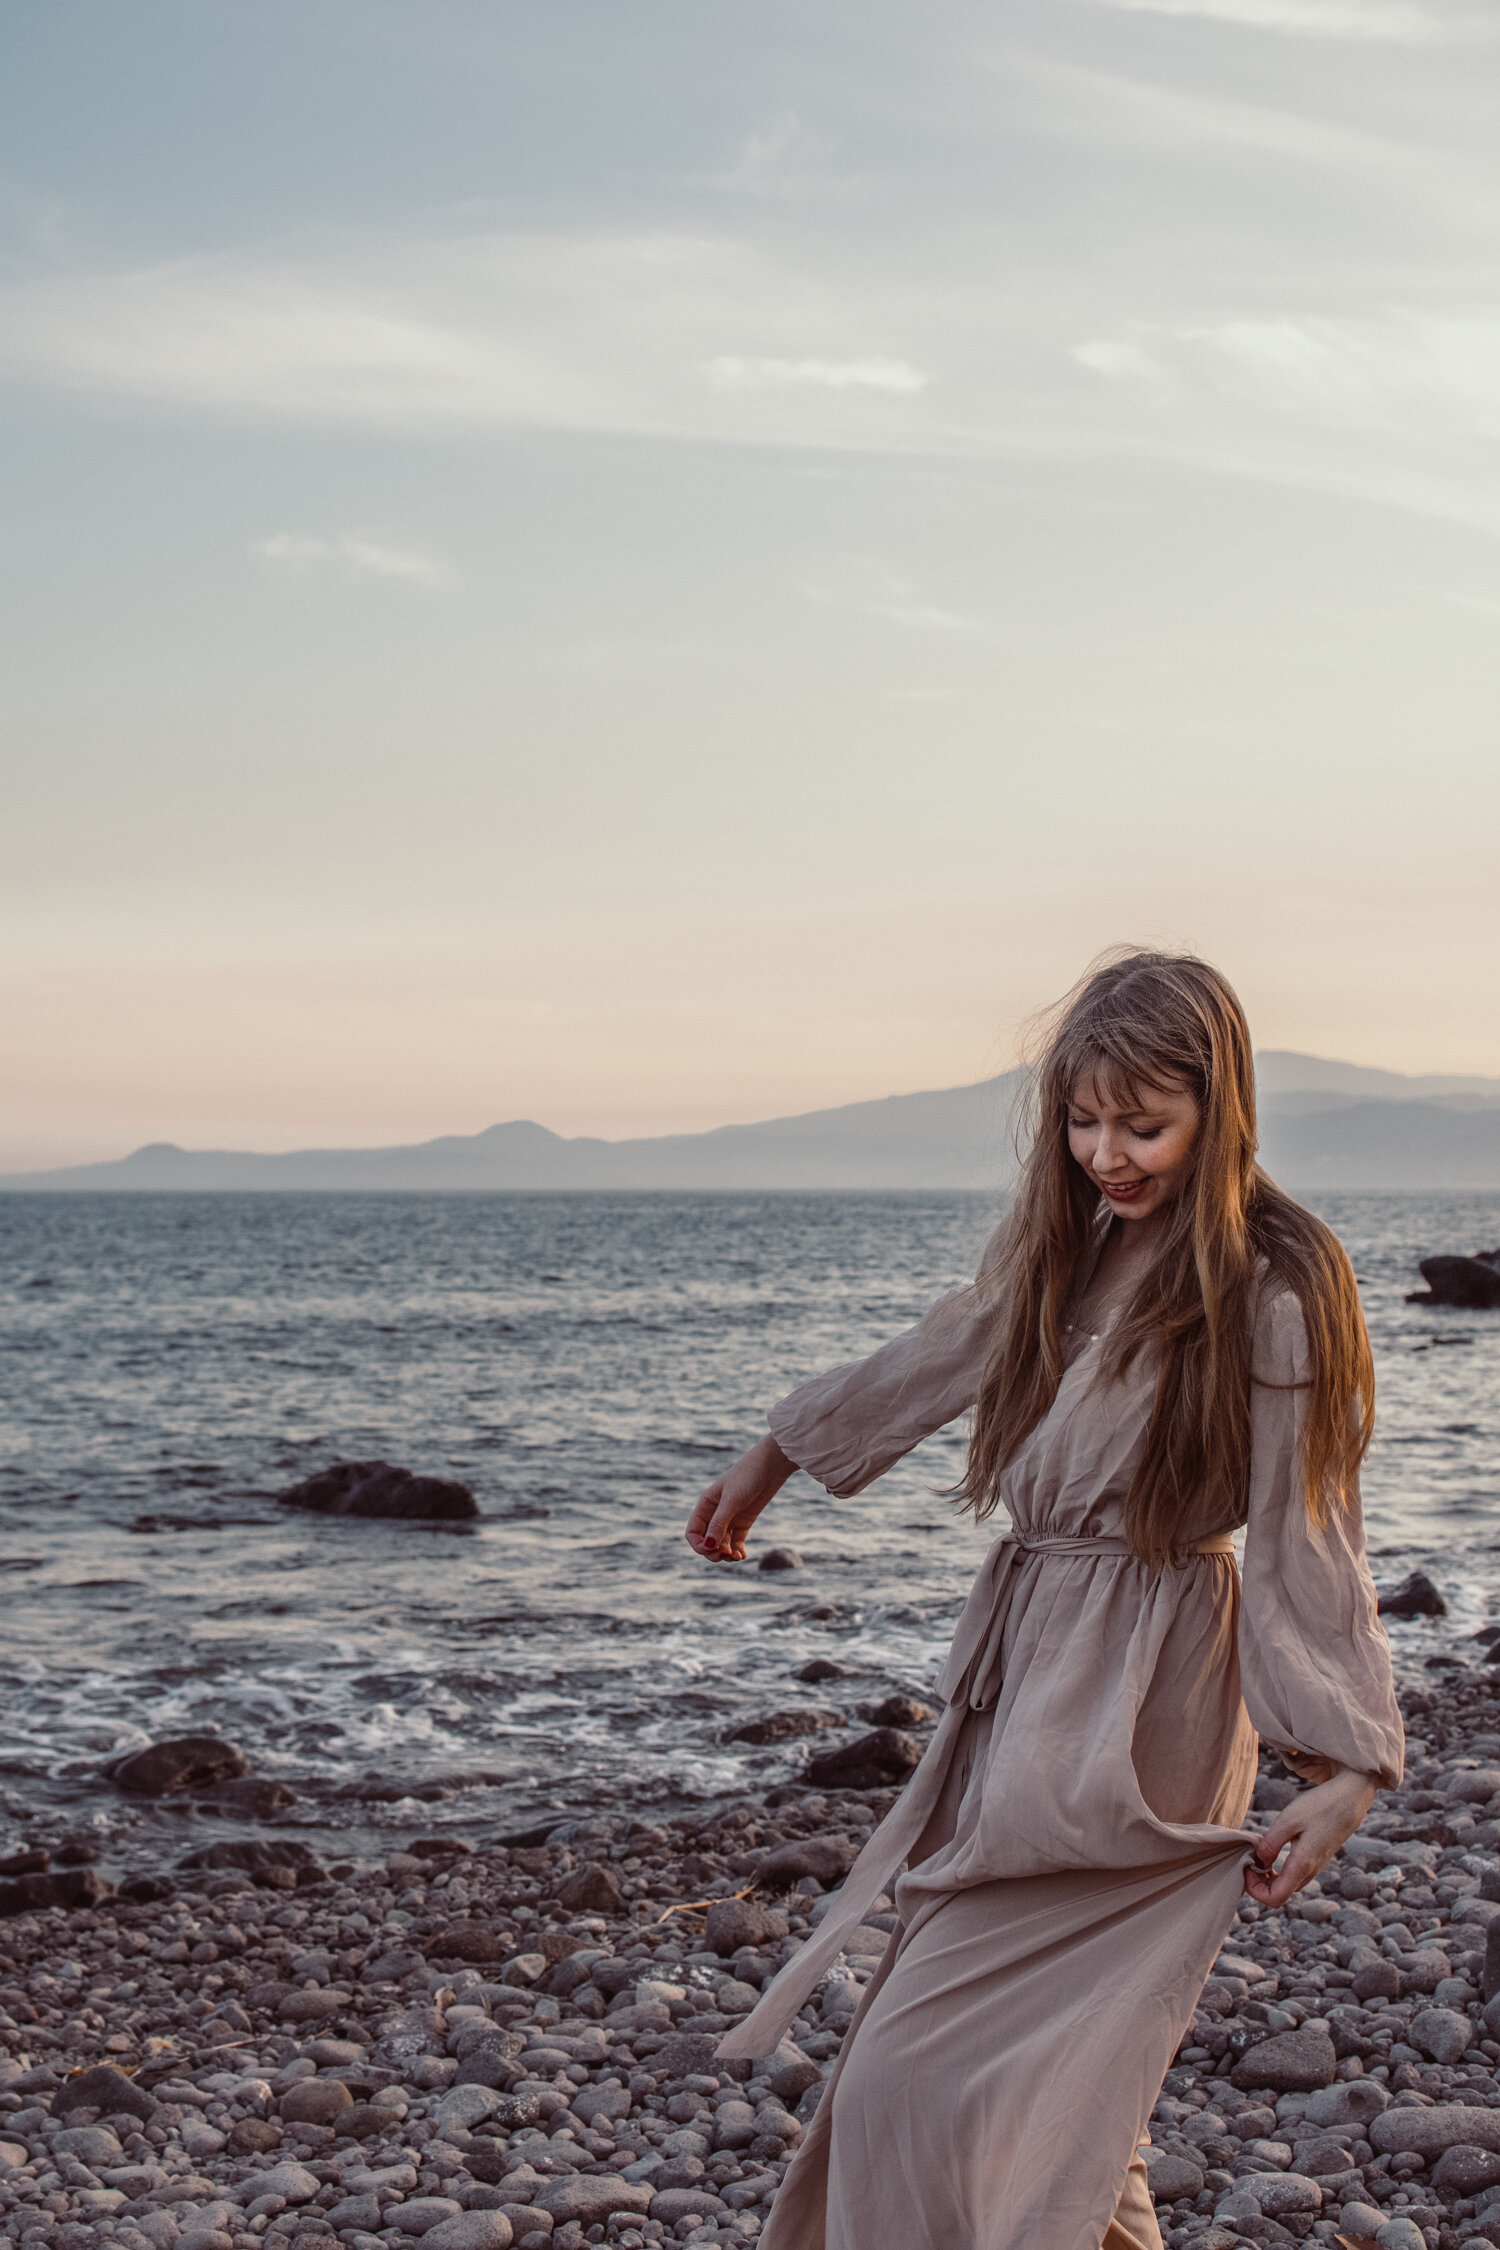
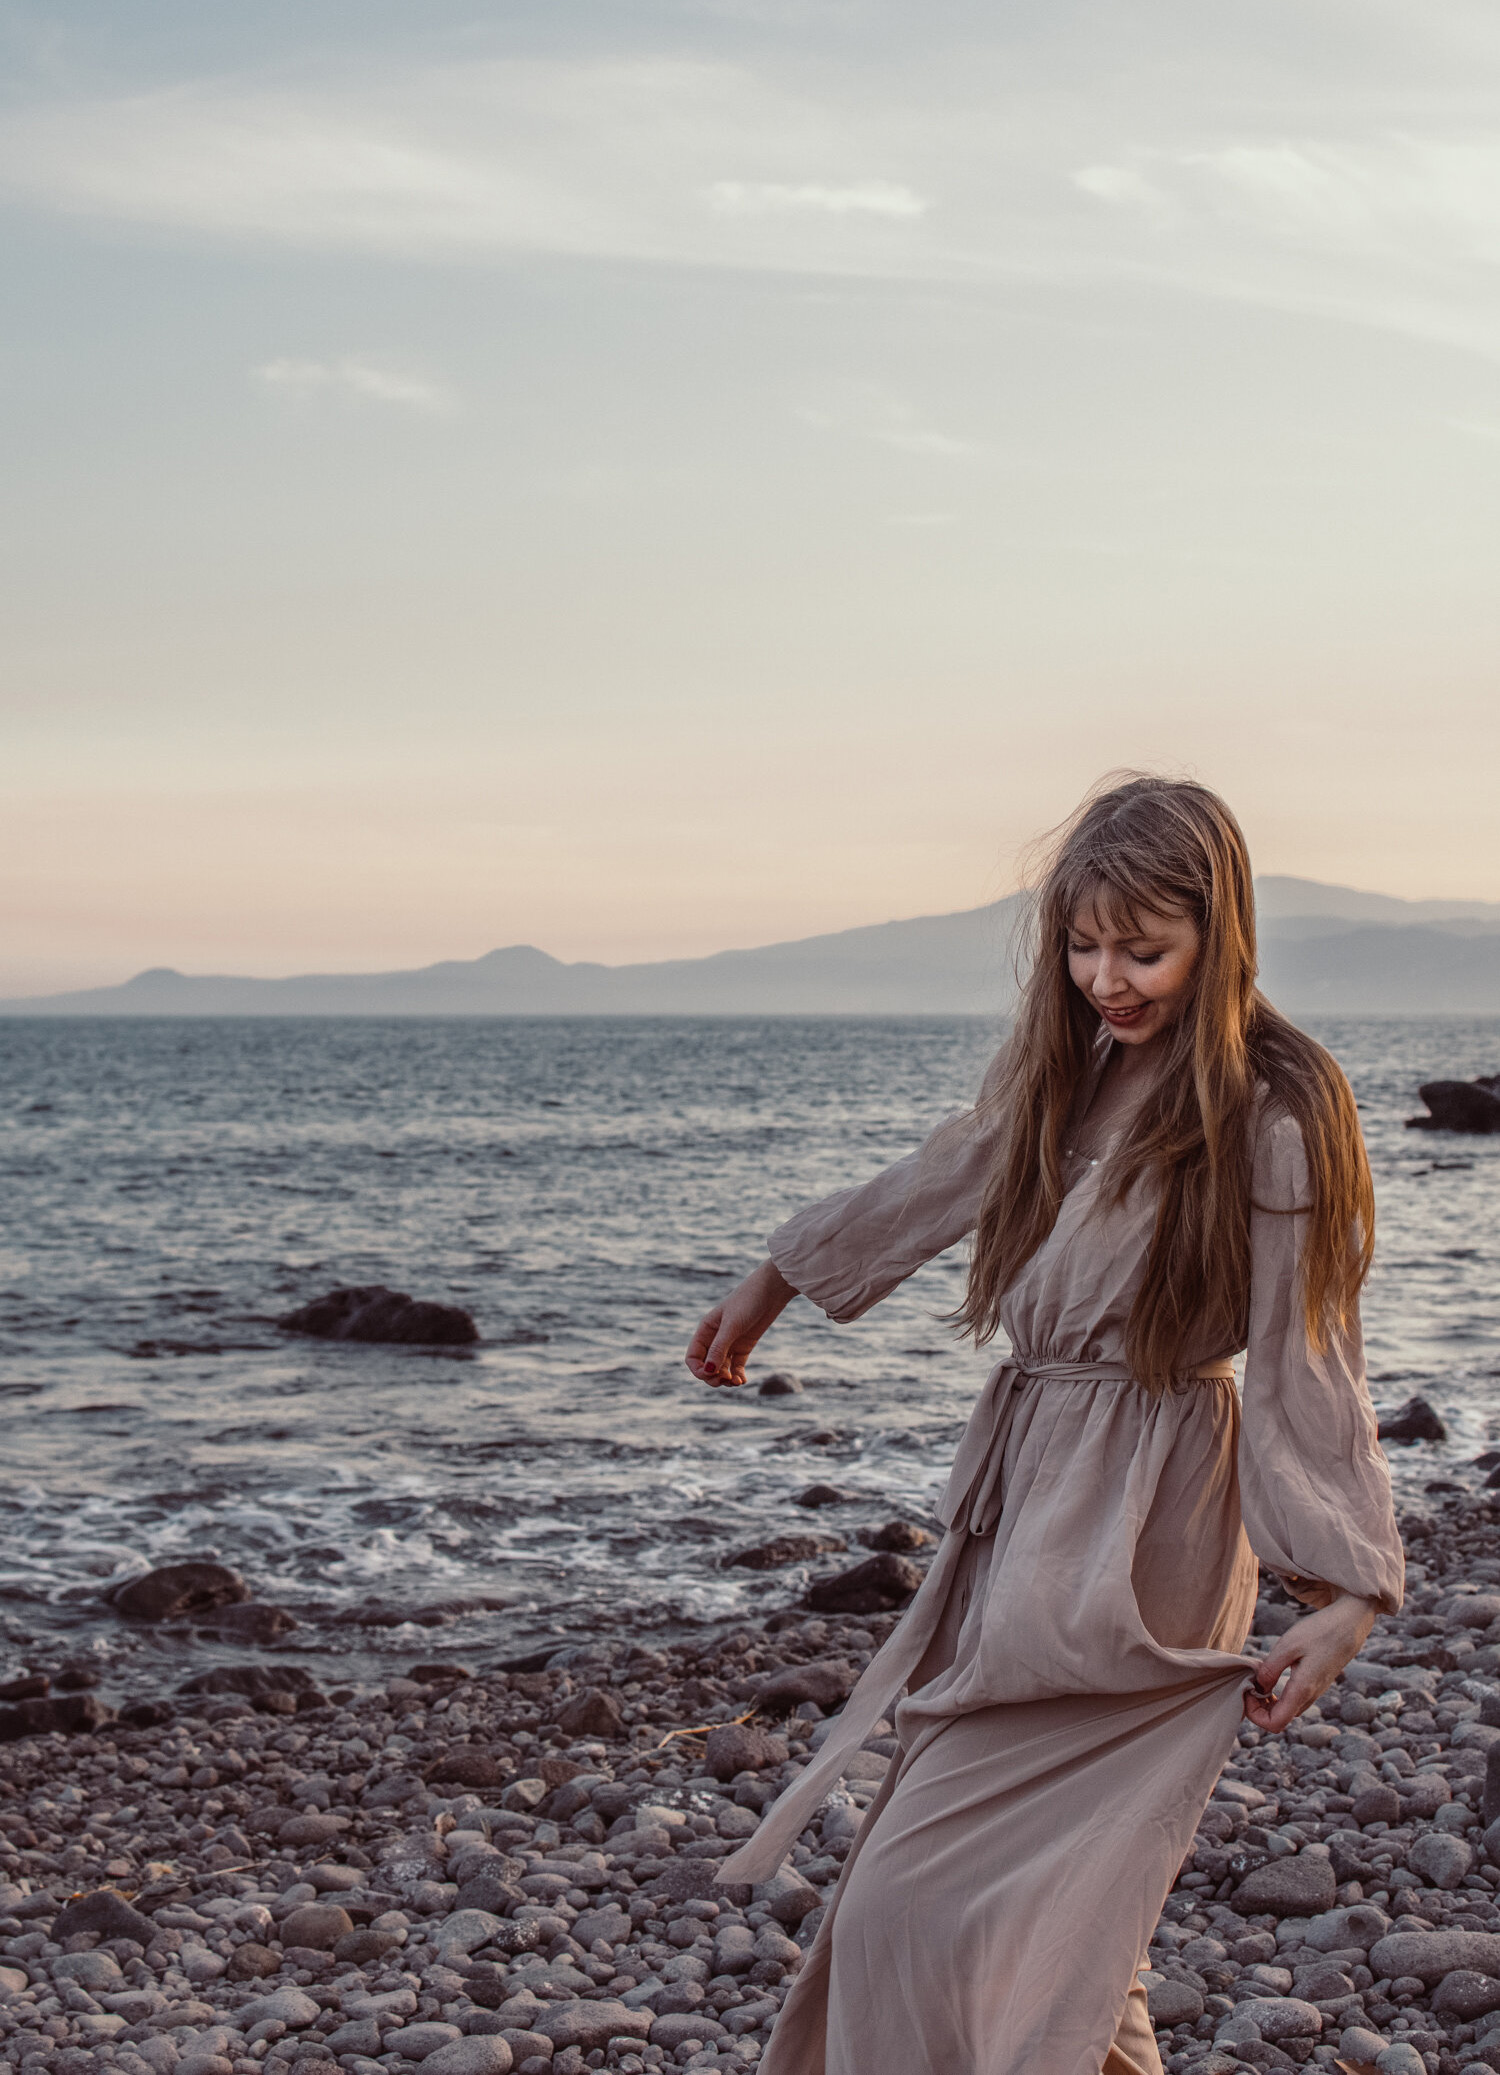
teachers page
update photos

diff --git a/teachers.html b/teachers.html
@@ -194,11 +194,11 @@
                 <div class="container">
                     <div class="row">
 						<div class="col-md-6">
-							<img src="images/photos/childsing-1.jpeg" class="img-responsive img-rounded" alt="">
+							<img src="images/photos/nhessica3.jpg" class="img-responsive img-rounded" alt="">
                         </div>
 						
                         <div class="col-md-6">
-                            <h3>Teacher - Nhessica</h3>
+                            <h3>Teacher - Nhessica</h3><br>
 							<p>Nhessica is a Melbourne-based Voice Teacher modelling the Estill Voice Training to develop vocal skills and all aspects of voice. Nhessica was awarded the Advanced Diploma of Music Industry, and Certificate IV in Training and Assessment from Melbourne Polytechnic.</p>
 
 <p>Music, dance and acting are her biggest passions that she takes pride in. Her love towards music expanded to not only performing on stage, but also having a heart to teach and train others, specifically to use their voice in an innovative way. Nhessica also has the ability to teach in different genres such as pop music, rock, contemporary, musical theatre, latin, gospel and world music.</p>
